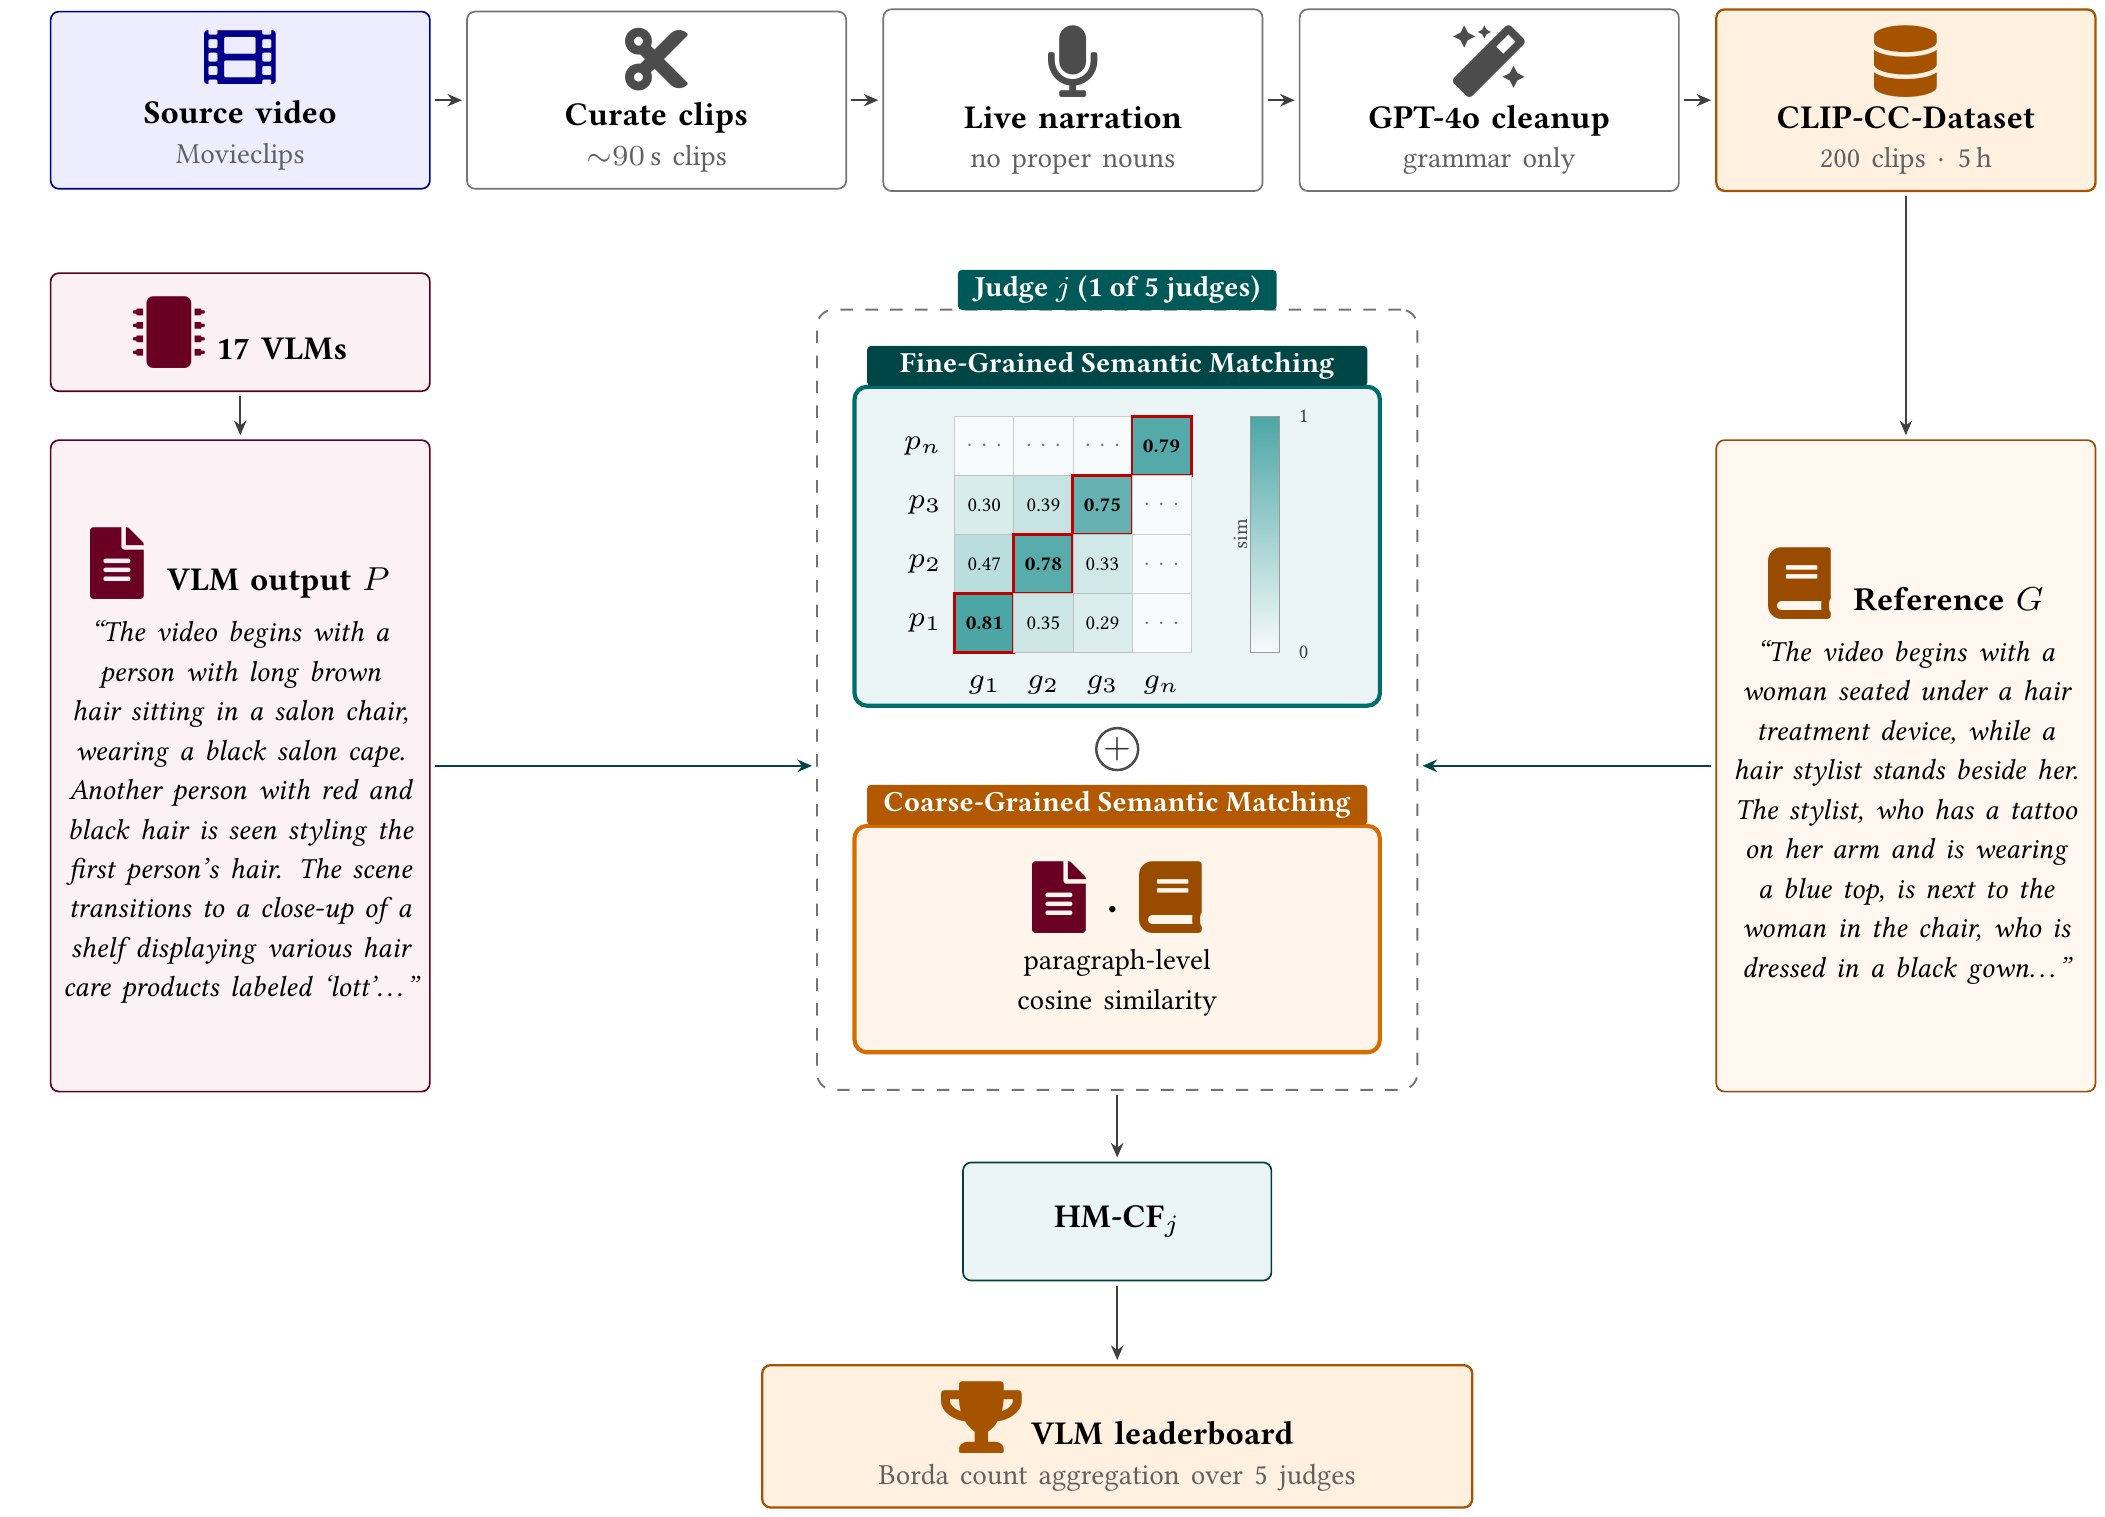
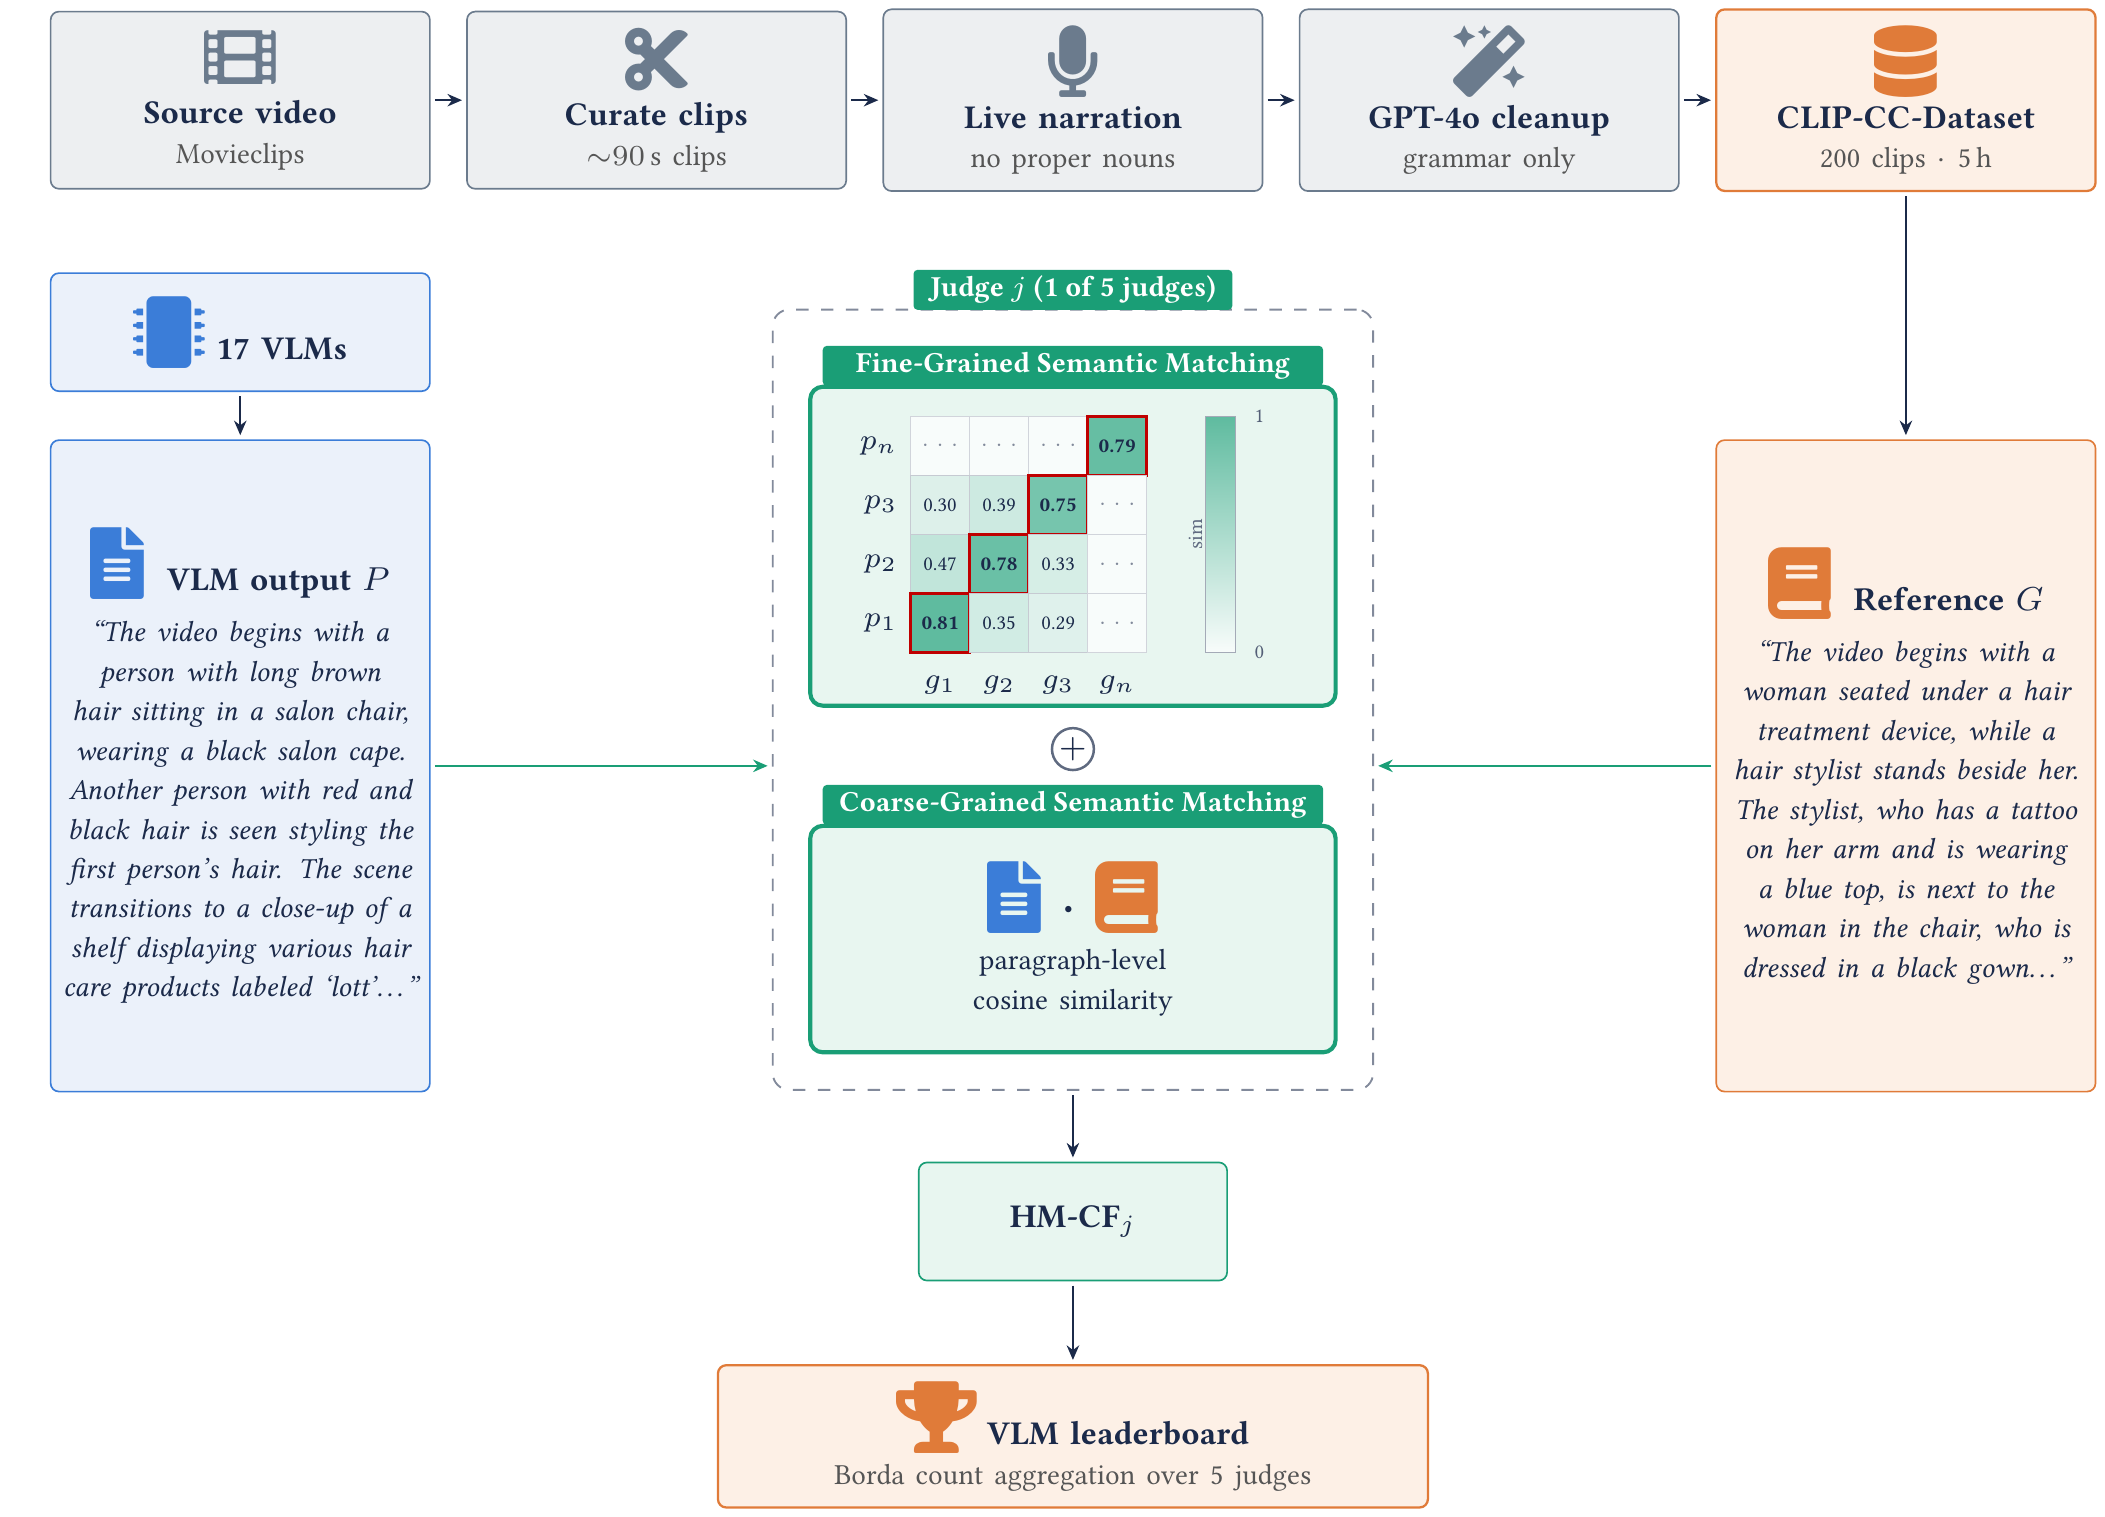
Update CLIP-CC-Bench and KBS records to match the published papers
CLIP-CC-Bench was accepted AND presented at EvalMG @ ACM SIGIR 2026 and
is now on arXiv (2608.04302). The site had the title unhyphenated, no
arXiv link, credited Mukhtiar as sole first author, and described a
method the paper does not use ("decoupling retrieval-style from
generation-style evaluation"). Rewritten from the abstract: 200 clips of
~90s, five LLM embedding judges, coarse- and fine-grained semantic
matching, 17 VLMs ranked by Borda count.

KBS paper is retitled, under review, and no longer equal contribution -
Mukhtiar is second author (Conceptualization, Investigation, Writing -
review & editing); Eungjoo Lee is corresponding. Project page rewritten
from the submitted abstract.

Also swaps in the updated overview figure and adds a news item for the
arXiv release and the Melbourne presentation.

diff --git a/_projects/3_clipccbench.md b/_projects/3_clipccbench.md
@@ -1,29 +1,34 @@
 ---
 layout: page
-title: CLIP-CC Bench — Paragraph-Level Video Description Evaluation
-description: Dataset + benchmark for evaluating paragraph-level video descriptions in vision-language models. <strong>Accepted (long paper) at EvalMG @ SIGIR 2026.</strong>
+title: CLIP-CC-Bench — Paragraph-Level Video Description Evaluation
+description: A benchmark and evaluation suite for long-form, paragraph-level video description in video–language models. <strong>Presented at EvalMG @ ACM SIGIR 2026.</strong>
 img: assets/img/3_clipcc_pipeline.png
 importance: 2
 category: current
 related_publications: false
 ---
 
-**Venue:** EvalMG Workshop @ SIGIR 2026, Melbourne — 2nd Workshop on Evaluation for Multimodal Generation (accepted, long paper).
-**Role:** First author.
+**Venue:** EvalMG 2026, Melbourne — 2nd Workshop on Evaluation for Multimodal Generation, co-located with ACM SIGIR 2026 (long paper, presented).
+**Role:** Co-first author — Mukhtiar Ali, Harsh Dubey, and Sugam Mishra contributed equally.
+**Paper:** [arXiv:2608.04302](https://arxiv.org/abs/2608.04302) · **Leaderboard:** [project page](https://multimodal-intelligence-lab.github.io/CLIP-CC-Bench/)
 **Code:** [Multimodal-Intelligence-Lab/CLIP-CC-Bench](https://github.com/Multimodal-Intelligence-Lab/CLIP-CC-Bench) · **Dataset:** [CLIP-CC](https://github.com/Multimodal-Intelligence-Lab/CLIP-CC) · [HuggingFace](https://huggingface.co/datasets/IVSL-SDSU/Clip-CC)
 
-CLIP-CC Bench provides a dataset and evaluation suite for comparing paragraph-level video description models under realistic long-form settings. The pipeline decouples retrieval-style evaluation (CLIP / VLM encoders) from generation-style evaluation, giving practitioners a clear picture of where models fail as video length and narrative complexity grow.
+Benchmarking video–language models has largely focused on short clips scored with single-sentence metrics, which leaves an open question: can current systems actually produce accurate long-form, paragraph-level descriptions? CLIP-CC-Bench is built to answer that.
+
+The evaluation suite is built from **5 hours of movie content segmented into 200 clips of roughly 90 seconds**, each paired with an expert-written paragraph-style reference. Rather than trusting a single scorer, it uses an **ensemble of five state-of-the-art LLM-based embedding models as judges**, which raises reliability and mitigates single-model bias. Each judge applies two complementary methods: **coarse-grained semantic matching** (paragraph-level cosine similarity) and **fine-grained semantic matching** (sentence-to-sentence alignment), combined into a per-judge HM-CF score and aggregated across judges by **Borda count**.
+
+We evaluate **17 state-of-the-art video–language models**, reporting both Borda-aggregated rankings and average scores, and quantify the protocol's own reliability through inter-judge agreement and bootstrap ranking stability. VideoLLaMA3 leads the current leaderboard (Borda 80, mean HM-CF 0.67), followed by mPLUG-Owl3 and LLaVA-OneVision. Standardized evaluation scripts, model outputs, and aggregation tools are released for reproducibility.
 
 <div class="row mt-3 justify-content-center">
   <div class="col-sm-12">
-    <img class="img-fluid rounded" src="{{ '/assets/img/3_clipcc_pipeline.png' | relative_url }}" alt="CLIP-CC Bench evaluation pipeline" loading="lazy" />
-    <p class="text-center mt-2"><em>The CLIP-CC Bench evaluation pipeline.</em></p>
+    <img class="img-fluid rounded" src="{{ '/assets/img/3_clipcc_pipeline.png' | relative_url }}" alt="CLIP-CC-Bench overview: dataset construction, five embedding judges applying coarse- and fine-grained semantic matching, and Borda-aggregated VLM leaderboard" loading="lazy" />
+    <p class="text-center mt-2"><em>CLIP-CC-Bench end to end — dataset curation, per-judge coarse- and fine-grained matching, and Borda aggregation into the VLM leaderboard.</em></p>
   </div>
 </div>
 
 <div class="row mt-3 justify-content-center">
   <div class="col-sm-10">
     <img class="img-fluid rounded" src="{{ '/assets/img/3_clipcc_dataset_anim.webp' | relative_url }}" alt="CLIP-CC dataset overview" loading="lazy" />
-    <p class="text-center mt-2"><em>The CLIP-CC dataset — 200+ narrated video clips, curated in three steps.</em></p>
+    <p class="text-center mt-2"><em>The CLIP-CC dataset — 200 narrated movie clips, curated in three steps.</em></p>
   </div>
 </div>

diff --git a/_projects/4_physiofusion.md b/_projects/4_physiofusion.md
@@ -1,21 +1,25 @@
 ---
 layout: page
-title: Uncertainty-aware Multimodal Physiological Fusion
-description: Representation learning and trustworthiness auditing for multimodal physiological signals. <strong>In preparation for Knowledge-Based Systems (KBS).</strong>
+title: Trustworthy Multimodal Learning for Wearable Physiological Sensing
+description: Uncertainty-aware feature modulation and post-hoc reliability auditing for multimodal physiological fusion. <strong>Under review at Knowledge-Based Systems (KBS).</strong>
 img: assets/img/4_physiofusion_architecture.png
 importance: 3
 category: current
 related_publications: false
 ---
 
-**Venue:** Knowledge-Based Systems (KBS) journal (in preparation).
-**Role:** Co-first author (with Seungpil Choi).
+**Venue:** Knowledge-Based Systems (KBS) journal — under review.
+**Role:** Second author (Conceptualization, Investigation, Writing – review & editing). Seungpil Choi is first author; Eungjoo Lee is corresponding author.
 
-A framework for fusing heterogeneous physiological signals under uncertainty, including an auditing step that flags unreliable predictions before downstream use. The work contributes a representation-learning objective that decouples modality-specific and shared components, paired with a trustworthiness score for clinical-adjacent decision making.
+Wearable physiological monitoring is increasingly used for stress and affect recognition — driver-state tracking, daily-life stress — but fusing heterogeneous sensor streams stays fragile: individual channels degrade or fail without warning, and most fusion models give no signal that anything went wrong.
+
+This work pairs **uncertainty-aware feature modulation** with a **post-hoc trustworthiness auditing** mechanism. Modality-specific Transformer encoders are first aligned through auxiliary classification and mutual distillation, so the resulting representations support stable uncertainty estimation. Noise-perturbation sensitivity scores then down-weight unreliable modalities before a multimodal Transformer produces the fused prediction, with cyclic optimization and an EMA parameter update regularizing training dynamics.
+
+At inference, the auditing scheme measures **epistemic honesty under progressive sensor corruption** and quantifies **modality reliance under channel dropout** — a sensor-level diagnostic of when and why the model's outputs should be trusted. Across WESAD and AffectiveROAD the method reaches accuracy and F1 competitive with the compared approaches while additionally auditing its own uncertainty behavior; on WESAD, where sensor corruption is resolvable, it also spreads its reliance more evenly across sensors and responds more honestly to input degradation.
 
 <div class="row mt-3 justify-content-center">
   <div class="col-sm-12">
-    <img class="img-fluid rounded" src="{{ '/assets/img/4_physiofusion_architecture.png' | relative_url }}" alt="Multimodal physiological fusion architecture" loading="lazy" />
-    <p class="text-center mt-2"><em>Uncertainty-aware multimodal physiological fusion with trustworthiness auditing.</em></p>
+    <img class="img-fluid rounded" src="{{ '/assets/img/4_physiofusion_architecture.png' | relative_url }}" alt="Uncertainty-aware multimodal physiological fusion architecture with reliability auditing" loading="lazy" />
+    <p class="text-center mt-2"><em>Uncertainty-aware feature modulation with post-hoc reliability auditing.</em></p>
   </div>
 </div>

diff --git a/_pages/about.md b/_pages/about.md
@@ -26,7 +26,7 @@ latest_posts:
 
 I am a final-year PhD candidate in Computer Science at South Dakota State University, graduating Fall 2026, advised by Dr. Chulwoo Pack in the Multimodal Intelligence (MINT) Lab. My research sits at the intersection of **multimodal learning, vision-language models, and wearable biosignal analysis** — with recent emphasis on long-form video understanding, uncertainty-aware multimodal fusion for healthcare, and lightweight architectures for on-device stress and affect recognition.
 
-My doctoral trajectory builds on earlier work in medical image CNNs (breast cancer detection), human-state deep learning (driver drowsiness from eye-state video), and applied ML for social data. Today that arc continues through two accepted first-author papers — **MuSDeT** (published at the MULA Workshop, **CVPR 2026** in Denver) and **CLIP-CC Bench** (accepted as a long paper at **EvalMG @ SIGIR 2026**) — plus co-first-author work in preparation for the **Knowledge-Based Systems (KBS)** journal and a long-form video benchmark (VCS/VCB) in preparation for **CVPR 2027**.
+My doctoral trajectory builds on earlier work in medical image CNNs (breast cancer detection), human-state deep learning (driver drowsiness from eye-state video), and applied ML for social data. Today that arc continues through two published first-author papers — **MuSDeT** (MULA Workshop, **CVPR 2026** in Denver) and **CLIP-CC-Bench** (long paper presented at **EvalMG @ ACM SIGIR 2026**, [arXiv:2608.04302](https://arxiv.org/abs/2608.04302)) — plus a second-author journal paper under review at **Knowledge-Based Systems (KBS)** and a long-form video benchmark (VCS/VCB) in preparation for **CVPR 2027**.
 
 I'm open to industry research and academic faculty positions for 2026–2027. My full record is in my [CV](/cv/).
 

diff --git a/_news/2026-06-03-clipcc-sigir.md b/_news/2026-06-03-clipcc-sigir.md
@@ -5,4 +5,4 @@ inline: true
 related_posts: false
 ---
 
-**CLIP-CC Bench** accepted as a **long paper** at **EvalMG @ SIGIR 2026**, Melbourne — a benchmark for paragraph-level video-description evaluation in vision-language models. [[code]](https://github.com/Multimodal-Intelligence-Lab/CLIP-CC-Bench) [[data]](https://huggingface.co/datasets/IVSL-SDSU/Clip-CC)
+**CLIP-CC-Bench** accepted as a **long paper** at **EvalMG @ ACM SIGIR 2026**, Melbourne — a benchmark for paragraph-level video-description evaluation in video–language models. [[code]](https://github.com/Multimodal-Intelligence-Lab/CLIP-CC-Bench) [[data]](https://huggingface.co/datasets/IVSL-SDSU/Clip-CC)

diff --git a/_news/2026-08-05-clipcc-arxiv.md b/_news/2026-08-05-clipcc-arxiv.md
@@ -1,0 +1,8 @@
+---
+layout: post
+date: 2026-08-05
+inline: true
+related_posts: false
+---
+
+Presented **CLIP-CC-Bench** at **EvalMG @ ACM SIGIR 2026** in Melbourne, and the paper is now on arXiv — 200 long-form movie clips, 5 embedding judges, 17 video–language models ranked by Borda count. [[arXiv]](https://arxiv.org/abs/2608.04302) [[leaderboard]](https://multimodal-intelligence-lab.github.io/CLIP-CC-Bench/) [[code]](https://github.com/Multimodal-Intelligence-Lab/CLIP-CC-Bench)
